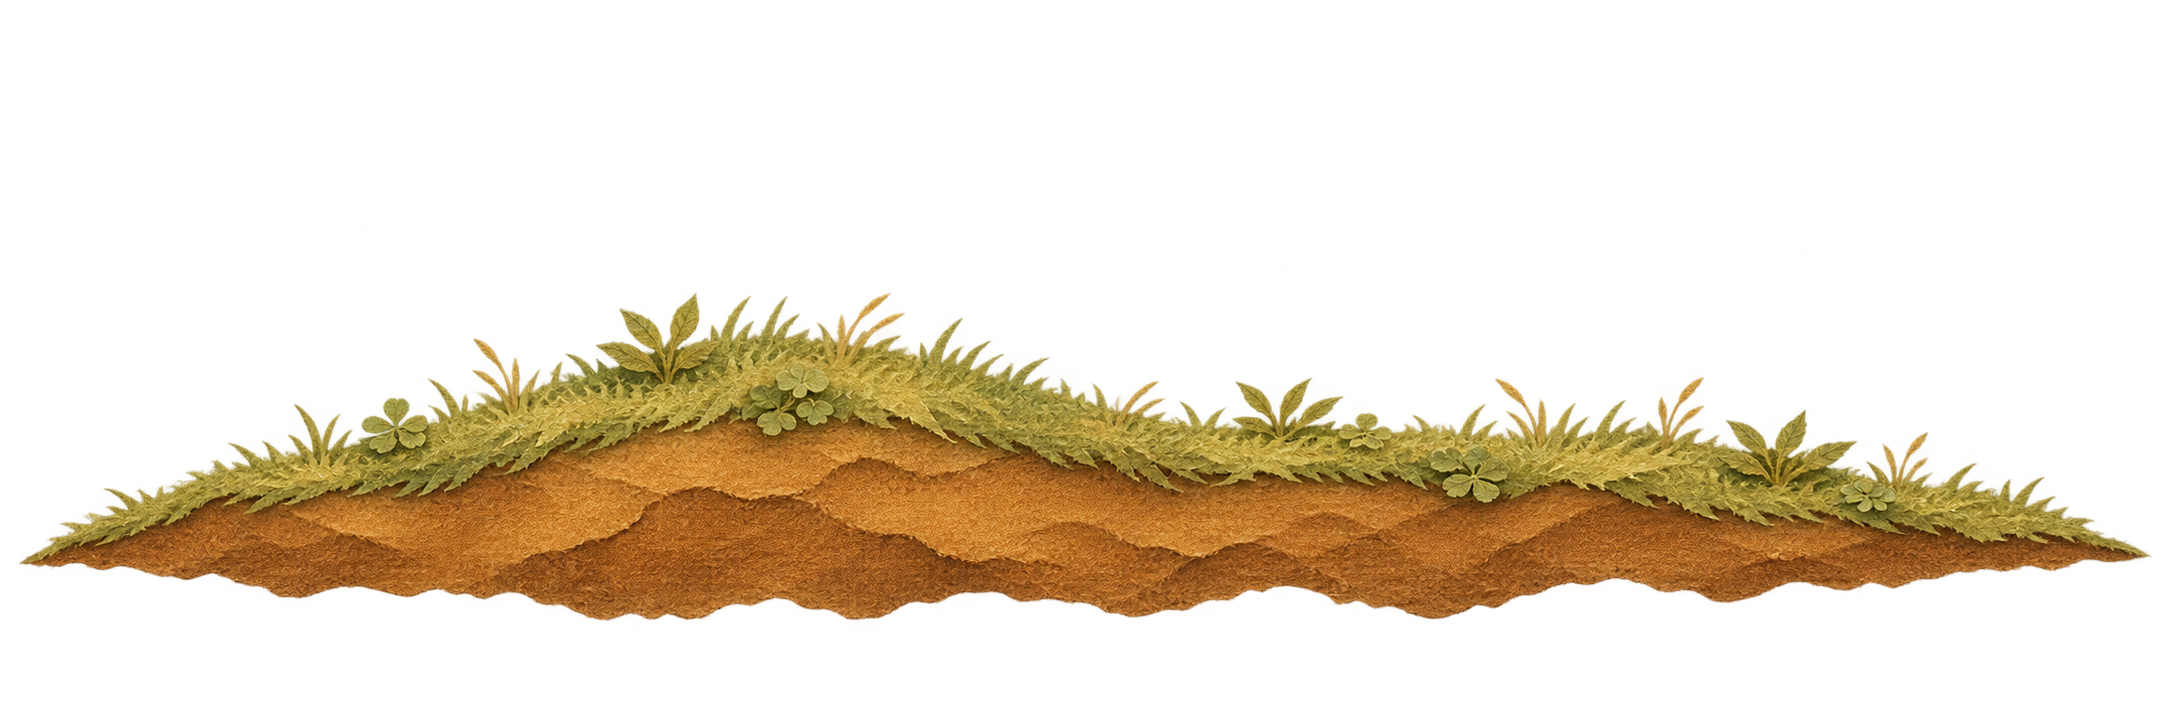
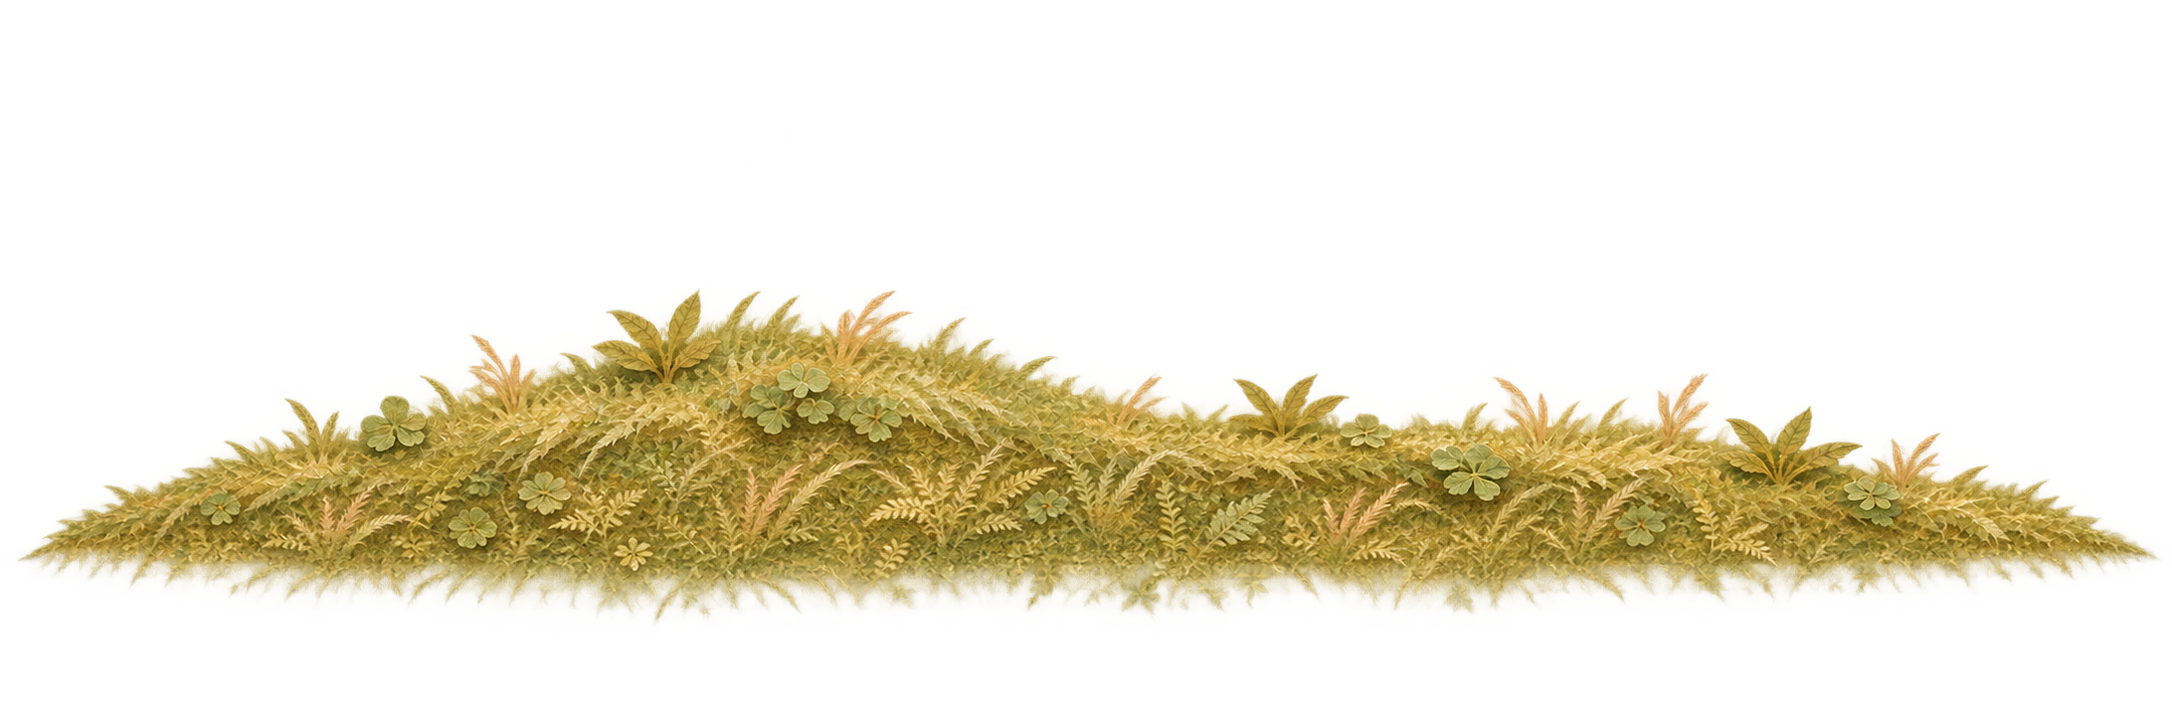
Blend planted ground and animate the spring victory transition

Changed region(s): [[0.0, 0.395, 1.0, 0.8508]]

diff --git a/docs/BETA_POLISH.md b/docs/BETA_POLISH.md
@@ -117,3 +117,9 @@ Four paper motion atlases replace the sixteen-pose reference sheet with seventy-
 The nighttime **Full moon** preview action makes rare visitors easy to inspect and cannot change campaign weather or saves. Review captures: [squirrel climbing](images/squirrel-climbing.png), [branch resident](images/squirrel-perched.png), [owl gaze](images/owl-gaze.png), [full-moon visitors](images/full-moon-visitors.png). Motion and asset checks live in `tests/test_wildlife_polish.gd`; `tests/browser_wildlife_polish.py` uses real buttons/keys and read-only frame observations.
 
 Run native regressions with `python3 tools/check_godot_tests.py`. It rejects engine/script errors even when Godot returns a successful exit code, in addition to checking each script's reported failures. Test teardown gives the mixer time to release its last sample before quitting.
+
+### November 2026: planted ground and spring transition
+
+The root bank is now completely vegetated paper artwork, with a feathered lower edge and lighting/colour treatments for autumn, rain, dusk, night and winter. Victory sends a short warm light pulse through the tree. Missing leaves grow from their stems in a staggered branch wave; the existing crown changes colour, the meadow greens over 5.5 seconds, and the current winter outfit dissolves into the summer celebration pose. The landscape crossfades into sunlight. These are presentation effects and do not change saved leaf identities, rewards or RNG. Settled snow has a smooth highlighted rim and soft shaded folds.
+
+Validation: seven growth/render-buffer checks, the existing finale timing tests, and the browser finale flow. Ambient rustle now reaches independently timed leaves throughout the crown; the attachment regression allows its small cosmetic motion after a leaf has settled.

diff --git a/assets/ASSET_MANIFEST.md b/assets/ASSET_MANIFEST.md
@@ -61,3 +61,5 @@ The in-game License screen reads Godot’s full MIT text and bundled-library cop
 
 
 Current wildlife uses four original generated paper animation sheets, copied unchanged: `art/owl_motion.png` (`exec-b2e0437c-f027-4082-a2ec-08635e8d6f31.png`, sixteen frontal gaze/blink/flap poses), `art/squirrel_motion.png` (`exec-e535b834-0eb0-4657-a3b5-a061f3fbee0d.png`, sixteen run/climb/jump/perch poses), `art/rabbit_motion.png` (`exec-1e3b9bc2-ef8b-4e12-b6e5-93d7fdc1a3e0.png`, three matching eight-pose coats), and `art/rare_motion.png` (`exec-c6338ffd-f698-4ee6-a289-dc435af1f95e.png`, eight wolf and eight bat poses). All reference the earlier paper wildlife art and use smooth mipmapped filtering. `tools/build_animal_motion_regions.py` finds complete silhouettes across rows so stretched poses crossing a nominal cell boundary retain their noses and paws. It bakes source-space talon/foot/body anchors, including authored bat-eye coordinates and measured owl head-to-talon body heights, without altering PNG pixels. The old sixteen-pose reference atlas is excluded from game exports.
+
+- `art/root_meadow.png` (revised November 2026): original generated paper meadow bank, fully planted without exposed soil. Generated from the existing original meadow and landscape as style references; original output retained in the workspace. Runtime feathering, seasonal pigment and light are applied by `meadow.gdshader`.
